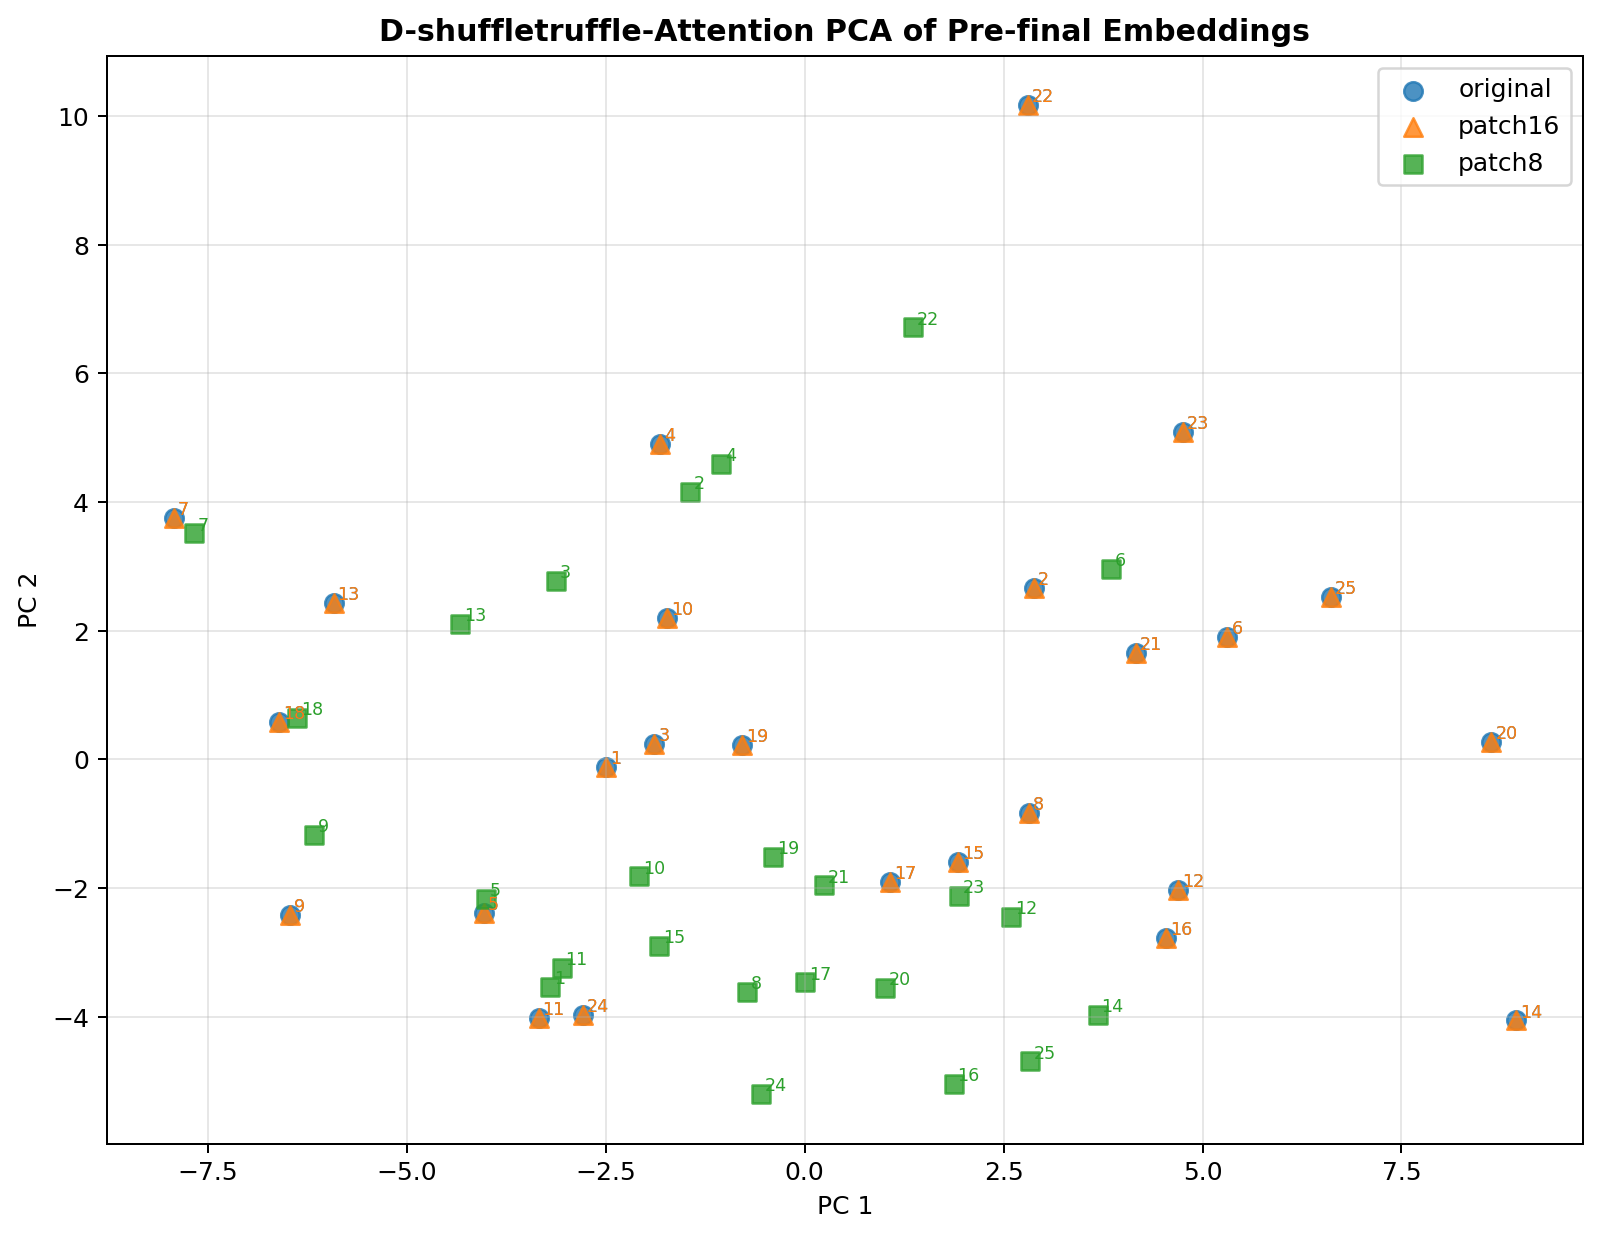
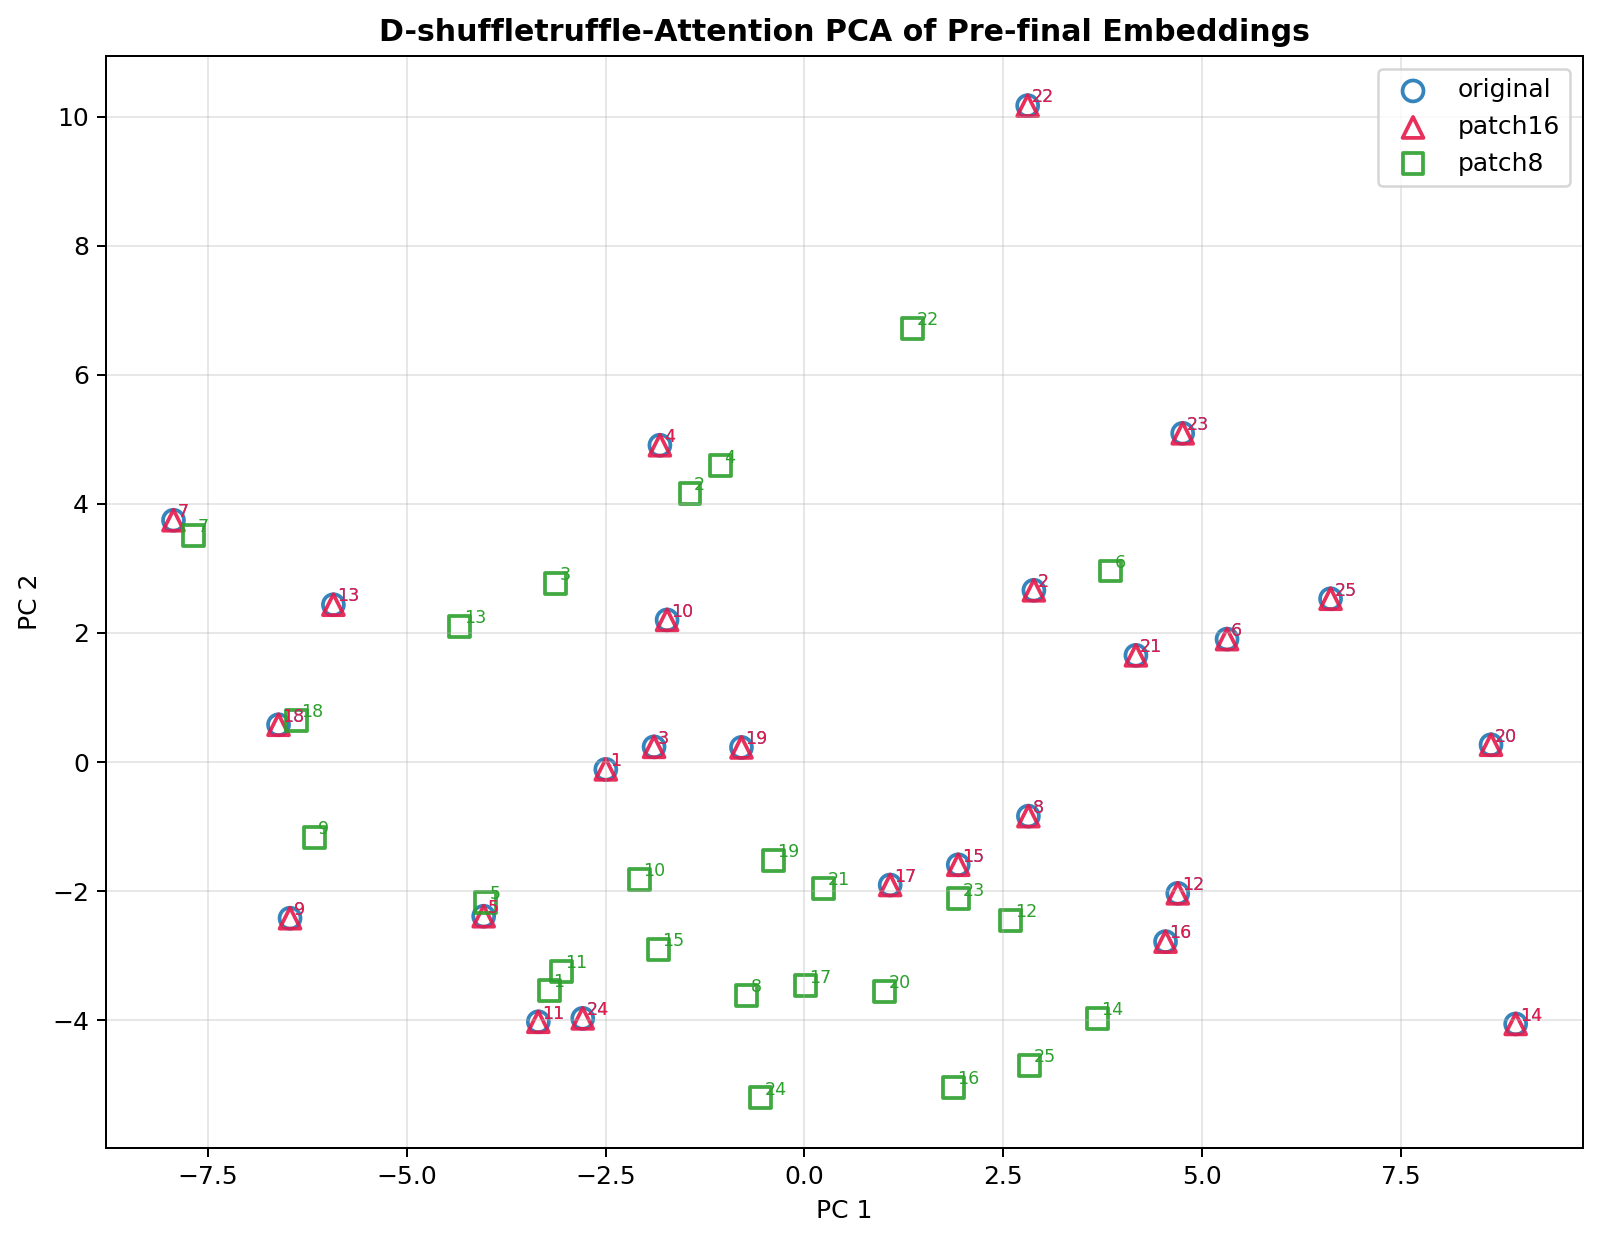
Use hollow markers with distinct colors in PCA plots for better variant visibility

diff --git a/plot_pca_embeddings.py b/plot_pca_embeddings.py
@@ -34,9 +34,9 @@ MODEL_CLASSES = [
 ]
 
 VARIANT_STYLES = {
-    'original':  {'color': '#1f77b4', 'marker': 'o'},
-    'patch16':   {'color': '#ff7f0e', 'marker': '^'},
-    'patch8':    {'color': '#2ca02c', 'marker': 's'},
+    'original':  {'color': '#1f77b4', 'marker': 'o', 'facecolor': 'none', 'linewidth': 1.5},
+    'patch16':   {'color': '#e6194b', 'marker': '^', 'facecolor': 'none', 'linewidth': 1.5},
+    'patch8':    {'color': '#2ca02c', 'marker': 's', 'facecolor': 'none', 'linewidth': 1.5},
 }
 
 
@@ -145,10 +145,12 @@ def plot_model_embeddings(model_name, projected, sample_ids, variants):
         ax.scatter(
             coords[:, 0],
             coords[:, 1],
-            c=style['color'],
+            facecolors=style['facecolor'],
+            edgecolors=style['color'],
+            linewidths=style['linewidth'],
             marker=style['marker'],
-            s=55,
-            alpha=0.8,
+            s=70,
+            alpha=0.9,
             label=variant_name,
         )
         for x, y, sample_id in zip(coords[:, 0], coords[:, 1], ids):
